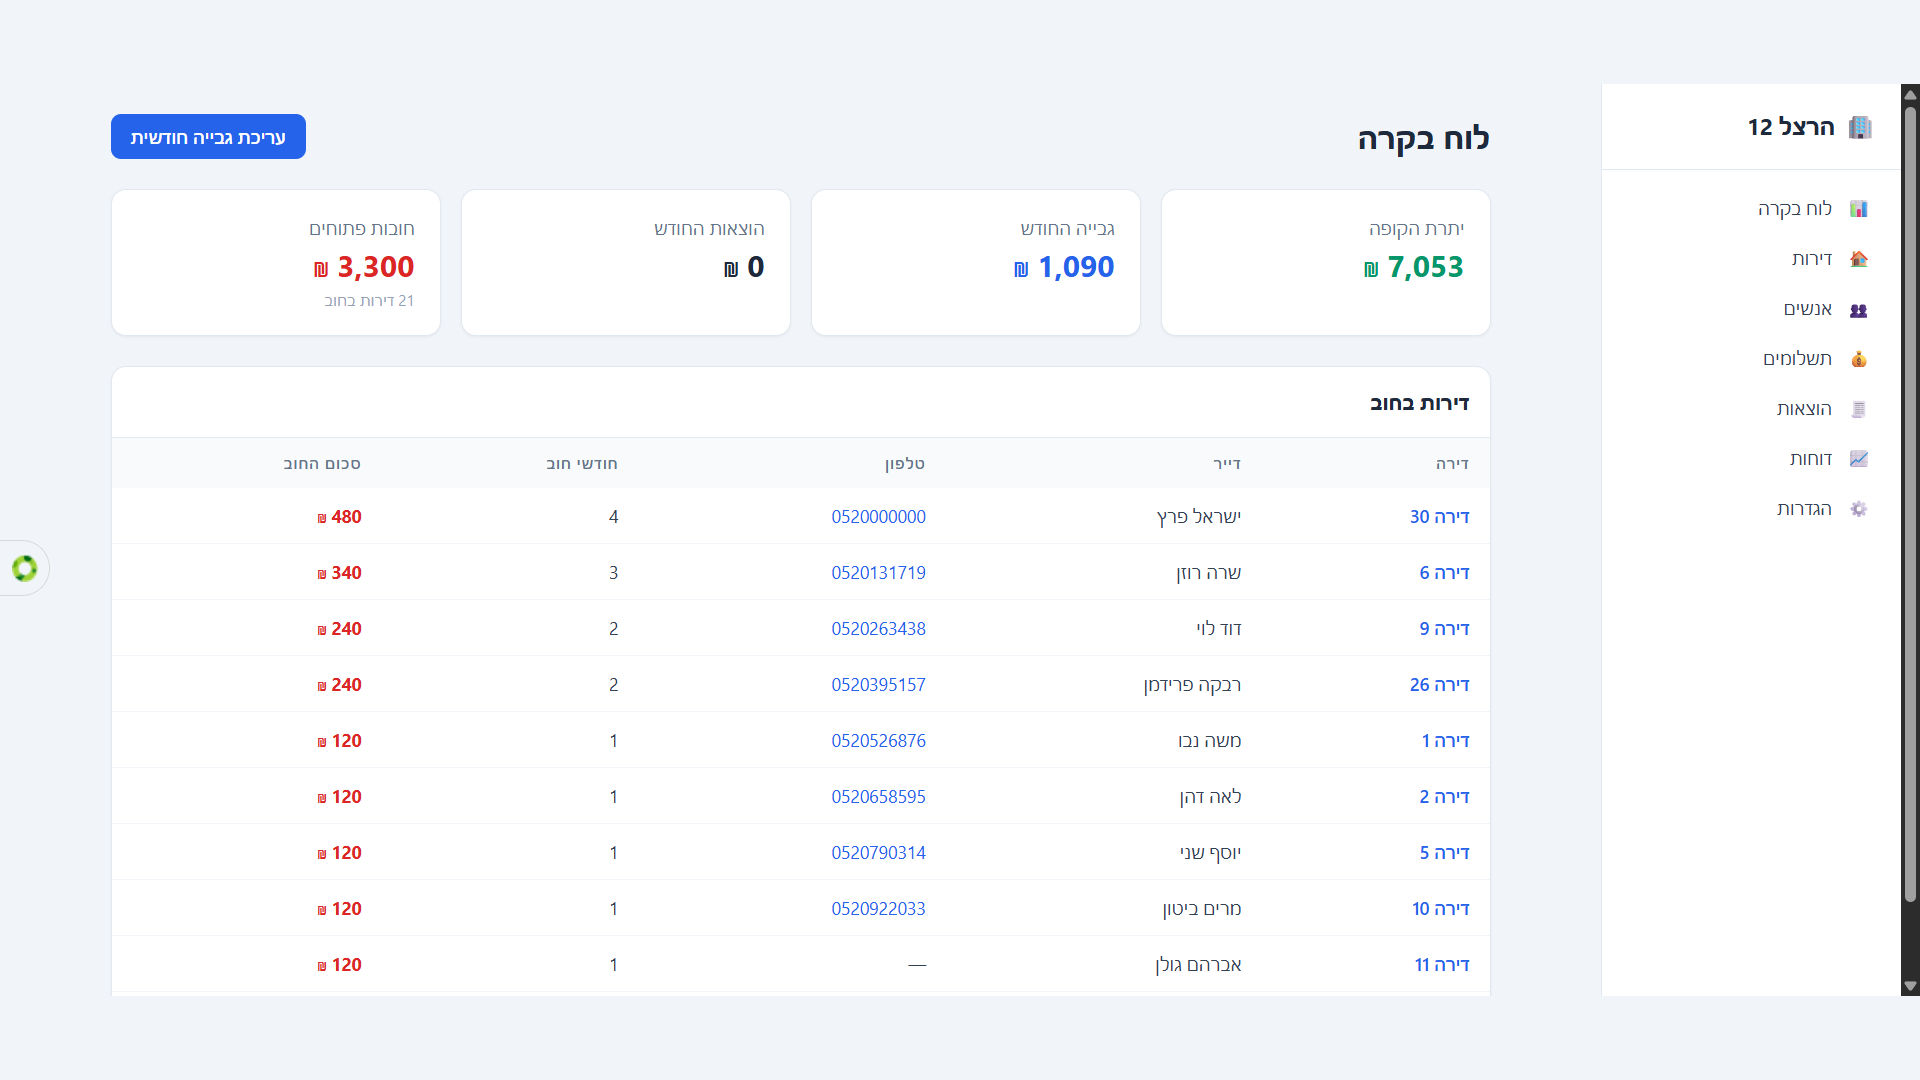
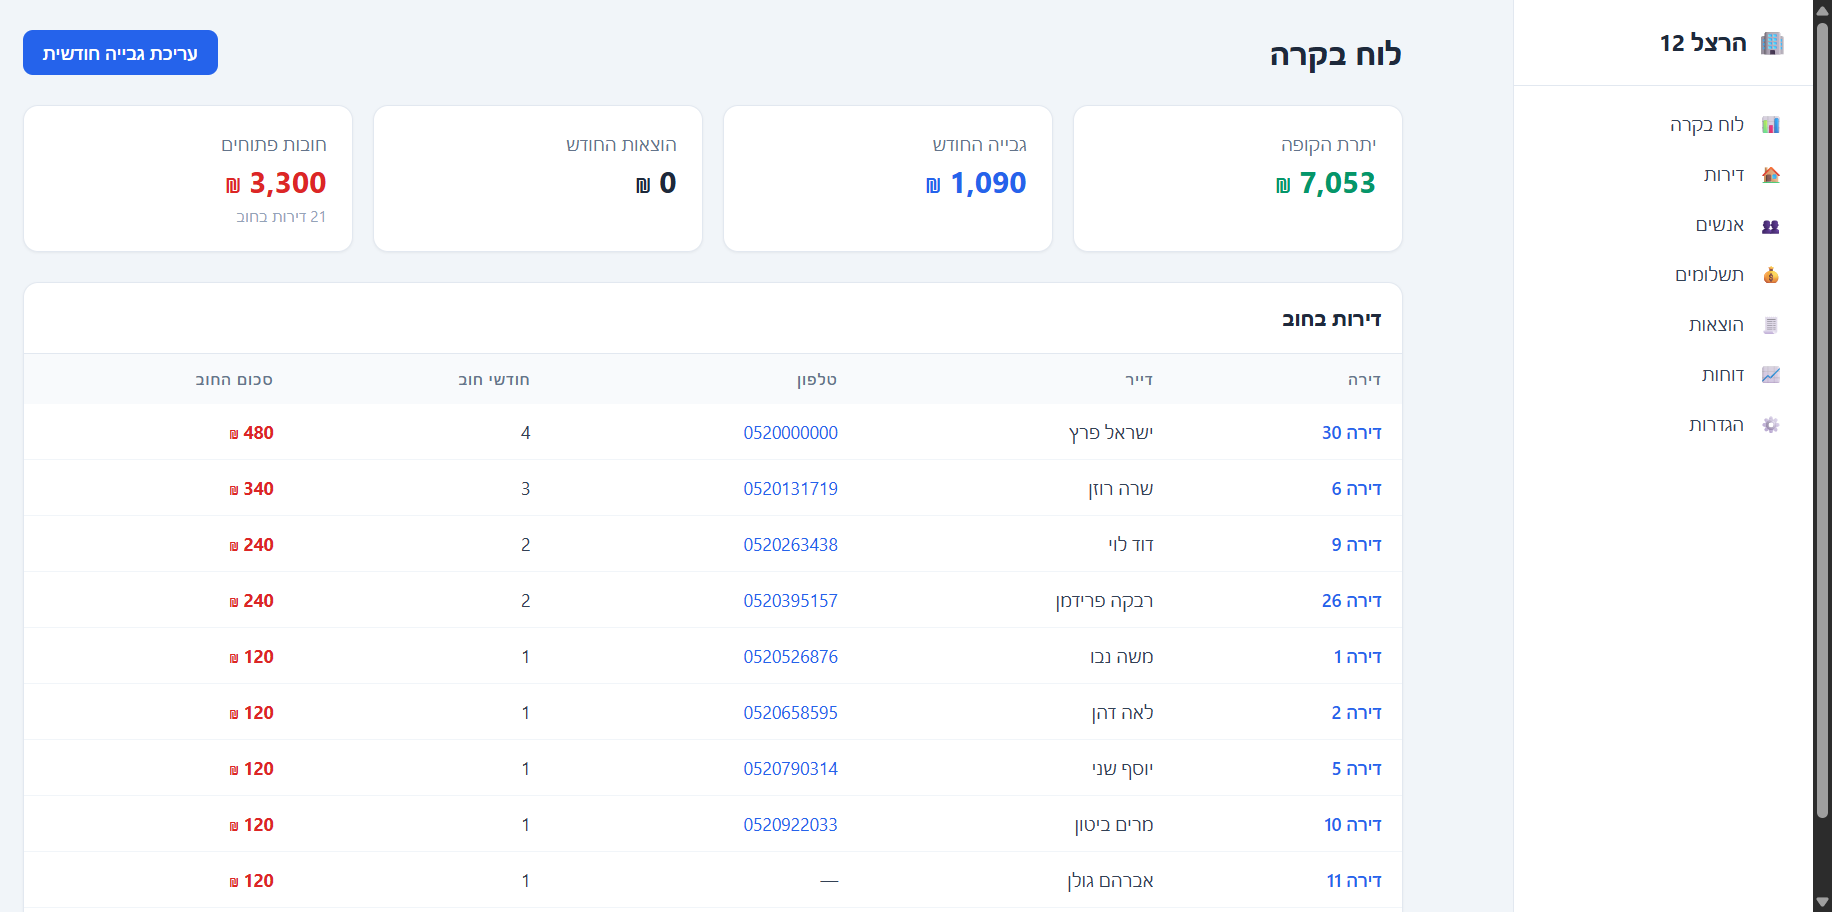
3 פרויקטים בשורה + לייטבוקס להגדלת צילומי מסך

diff --git a/css/sections.css b/css/sections.css
@@ -153,20 +153,57 @@
    פרויקטים
    ========================================================================== */
 
-/* שתי עמודות ולא שלוש — בשלוש, צילום מסך של 1920px מוצג ב-330px ואי אפשר לקרוא בו כלום */
-.projects { display: grid; gap: var(--sp-5); margin-top: var(--sp-7); }
-@media (min-width: 860px) { .projects { grid-template-columns: repeat(2, 1fr); } }
+/* שלושה פרויקטים בשורה. הצילום קטן מכדי לקרוא בו —
+   לכן לחיצה עליו פותחת אותו בגודל מלא (ראו .lightbox). */
+.projects { display: grid; gap: var(--sp-4); margin-top: var(--sp-7); }
+@media (min-width: 700px)  { .projects { grid-template-columns: repeat(2, 1fr); } }
+@media (min-width: 1000px) { .projects { grid-template-columns: repeat(3, 1fr); } }
 
 .project { padding: 0; overflow: hidden; display: flex; flex-direction: column; }
 
 .project__media {
   position: relative;
-  aspect-ratio: 16 / 9;
+  aspect-ratio: 2 / 1;   /* היחס הטבעי של הצילום — בלי חיתוך */
   background: var(--c-bg-soft);
   border-bottom: 1px solid var(--c-line);
   overflow: hidden;
 }
 .project__media img { width: 100%; height: 100%; object-fit: cover; object-position: top center; }
+
+/* מדיה שניתן ללחוץ עליה כדי להגדיל */
+button.project__media {
+  display: block;
+  width: 100%;
+  padding: 0;
+  border: 0;
+  border-bottom: 1px solid var(--c-line);
+  cursor: zoom-in;
+  font: inherit;
+}
+.project__zoom-hint {
+  position: absolute;
+  inset-block-end: 10px;
+  inset-inline-start: 10px;
+  display: inline-flex;
+  align-items: center;
+  gap: 6px;
+  padding: 6px 12px;
+  background: rgba(13, 13, 13, .78);
+  color: #fff;
+  border-radius: var(--r-pill);
+  font-size: var(--fs-xs);
+  font-weight: 500;
+  opacity: 0;
+  transform: translateY(4px);
+  transition: opacity var(--dur) var(--ease), transform var(--dur) var(--ease);
+}
+.project__zoom-hint svg { width: 14px; height: 14px; }
+button.project__media:hover .project__zoom-hint,
+button.project__media:focus-visible .project__zoom-hint { opacity: 1; transform: none; }
+/* במגע אין hover — התווית מוצגת תמיד */
+@media (hover: none) {
+  .project__zoom-hint { opacity: 1; transform: none; }
+}
 
 /* מצב placeholder — עד שיתקבלו צילומי מסך */
 .project__placeholder {
@@ -206,8 +243,8 @@
   font-weight: 600;
   color: var(--c-accent);
 }
+/* תווית וטקסט באותה שורה — כרטיס צר, חוסך 3 שורות */
 .project__rows { margin-top: var(--sp-4); display: grid; gap: var(--sp-3); }
-/* תווית וטקסט באותה שורה — חוסך 3 שורות לכל כרטיס פרויקט */
 .project__rows > div { font-size: var(--fs-sm); line-height: 1.6; }
 .project__row-label {
   display: inline;

diff --git a/js/main.js b/js/main.js
@@ -70,7 +70,9 @@
   });
 
   document.addEventListener('keydown', function (e) {
-    if (e.key === 'Escape') setMenu(false);
+    if (e.key !== 'Escape') return;
+    setMenu(false);
+    if (typeof closeLightbox === 'function') closeLightbox();
   });
 
   /* ======================================================================
@@ -144,6 +146,50 @@
   window.addEventListener('scroll', onScroll, { passive: true });
   window.addEventListener('resize', updateStickyCta);
   onScroll();
+
+  /* ======================================================================
+     Lightbox — הגדלת צילומי מסך של פרויקטים
+     ====================================================================== */
+  var lightbox    = $('#lightbox');
+  var lightboxImg = $('#lightboxImg');
+  var lightboxCap = $('#lightboxCaption');
+  var lightboxX   = $('#lightboxClose');
+  var lastFocused = null;
+
+  function openLightbox(trigger) {
+    if (!lightbox) return;
+    lastFocused = trigger;
+    lightboxImg.src = trigger.getAttribute('data-zoom');
+    lightboxImg.alt = trigger.querySelector('img') ? trigger.querySelector('img').alt : '';
+    lightboxCap.textContent = trigger.getAttribute('data-caption') || '';
+    lightbox.classList.add('is-open');
+    document.body.classList.add('is-locked');
+    // האלמנט עדיין visibility:hidden ברגע הוספת המחלקה — פוקוס מיידי נכשל בשקט
+    requestAnimationFrame(function () { lightboxX.focus(); });
+  }
+
+  function closeLightbox() {
+    if (!lightbox || !lightbox.classList.contains('is-open')) return;
+    lightbox.classList.remove('is-open');
+    document.body.classList.remove('is-locked');
+    if (lastFocused && lastFocused.focus) lastFocused.focus();
+    // משחררים את התמונה רק אחרי אנימציית היציאה
+    setTimeout(function () {
+      if (!lightbox.classList.contains('is-open')) lightboxImg.src = '';
+    }, 300);
+  }
+
+  $$('[data-zoom]').forEach(function (btn) {
+    btn.addEventListener('click', function () { openLightbox(btn); });
+  });
+
+  if (lightbox) {
+    lightboxX.addEventListener('click', closeLightbox);
+    // לחיצה על הרקע סוגרת; לחיצה על התמונה עצמה לא
+    lightbox.addEventListener('click', function (e) {
+      if (e.target === lightbox) closeLightbox();
+    });
+  }
 
   /* ======================================================================
      טופס

diff --git a/index.html b/index.html
@@ -289,11 +289,20 @@
 
       <!-- ===== פרויקט 1 — ועד בית (נתונים בצילום הם נתוני דמה) ===== -->
       <article class="card project reveal">
-        <div class="project__media">
+        <button class="project__media" type="button"
+                data-zoom="assets/projects/project-1.png"
+                data-caption="מערכת ניהול ועד בית — לוח בקרה (הנתונים בצילום הם נתוני דמה)"
+                aria-label="הגדלת צילום המסך: לוח הבקרה של מערכת ועד הבית">
           <img src="assets/projects/project-1.png"
                alt="לוח הבקרה של מערכת ועד הבית: יתרת קופה, גבייה חודשית, חובות פתוחים וטבלת דירות בחוב"
-               loading="lazy" width="1920" height="1080">
-        </div>
+               loading="lazy" width="1832" height="912">
+          <span class="project__zoom-hint">
+            <svg viewBox="0 0 24 24" fill="none" stroke="currentColor" stroke-width="2" stroke-linecap="round" stroke-linejoin="round" aria-hidden="true">
+              <circle cx="11" cy="11" r="7"/><path d="m20 20-3.5-3.5M11 8v6M8 11h6"/>
+            </svg>
+            להגדלה
+          </span>
+        </button>
         <div class="project__body">
           <span class="project__type">מערכת ניהול ועד בית</span>
           <h3 class="card__title">ועד בית, בלי כאב ראש</h3>
@@ -545,6 +554,17 @@
       <path d="M21 11.5a8.4 8.4 0 0 1-12.9 7.1L3 20.5l1.9-5A8.4 8.4 0 1 1 21 11.5Z"/>
     </svg>
   </a>
+</div>
+
+<!-- הגדלת צילומי מסך -->
+<div class="lightbox" id="lightbox" role="dialog" aria-modal="true" aria-label="תצוגה מוגדלת של צילום מסך">
+  <button class="lightbox__close" id="lightboxClose" type="button" aria-label="סגירה">
+    <svg width="20" height="20" viewBox="0 0 24 24" fill="none" stroke="currentColor" stroke-width="2" stroke-linecap="round" aria-hidden="true">
+      <path d="M18 6 6 18M6 6l12 12"/>
+    </svg>
+  </button>
+  <img class="lightbox__img" id="lightboxImg" src="" alt="">
+  <p class="lightbox__caption" id="lightboxCaption"></p>
 </div>
 
 <script src="js/config.js"></script>

diff --git a/css/components.css b/css/components.css
@@ -423,6 +423,65 @@ body.is-locked { overflow: hidden; }
 .btn.is-loading { pointer-events: none; opacity: .7; }
 
 /* ==========================================================================
+   Lightbox — הגדלת צילומי מסך
+   ========================================================================== */
+
+.lightbox {
+  position: fixed;
+  inset: 0;
+  z-index: 200;
+  display: grid;
+  place-items: center;
+  padding: clamp(16px, 4vw, 48px);
+  background: rgba(13, 13, 13, .88);
+  backdrop-filter: blur(6px);
+  -webkit-backdrop-filter: blur(6px);
+  opacity: 0;
+  visibility: hidden;
+  transition: opacity var(--dur) var(--ease), visibility var(--dur);
+}
+.lightbox.is-open { opacity: 1; visibility: visible; }
+
+.lightbox__img {
+  max-width: 100%;
+  max-height: 100%;
+  width: auto;
+  height: auto;
+  border-radius: var(--r-md);
+  box-shadow: 0 24px 70px rgba(0, 0, 0, .55);
+  transform: scale(.97);
+  transition: transform var(--dur) var(--ease);
+}
+.lightbox.is-open .lightbox__img { transform: none; }
+
+.lightbox__close {
+  position: absolute;
+  inset-block-start: clamp(12px, 3vw, 28px);
+  inset-inline-end: clamp(12px, 3vw, 28px);
+  display: grid;
+  place-items: center;
+  width: 44px;
+  height: 44px;
+  background: rgba(255, 255, 255, .12);
+  border: 1px solid rgba(255, 255, 255, .25);
+  border-radius: 50%;
+  color: #fff;
+  cursor: pointer;
+  transition: background var(--dur-fast) var(--ease);
+}
+.lightbox__close:hover { background: rgba(255, 255, 255, .22); }
+
+.lightbox__caption {
+  position: absolute;
+  inset-block-end: clamp(12px, 3vw, 28px);
+  inset-inline: 0;
+  text-align: center;
+  padding-inline: var(--sp-5);
+  color: rgba(255, 255, 255, .75);
+  font-size: var(--fs-xs);
+}
+
+/* ==========================================================================
    פוטר
    ========================================================================== */
 
